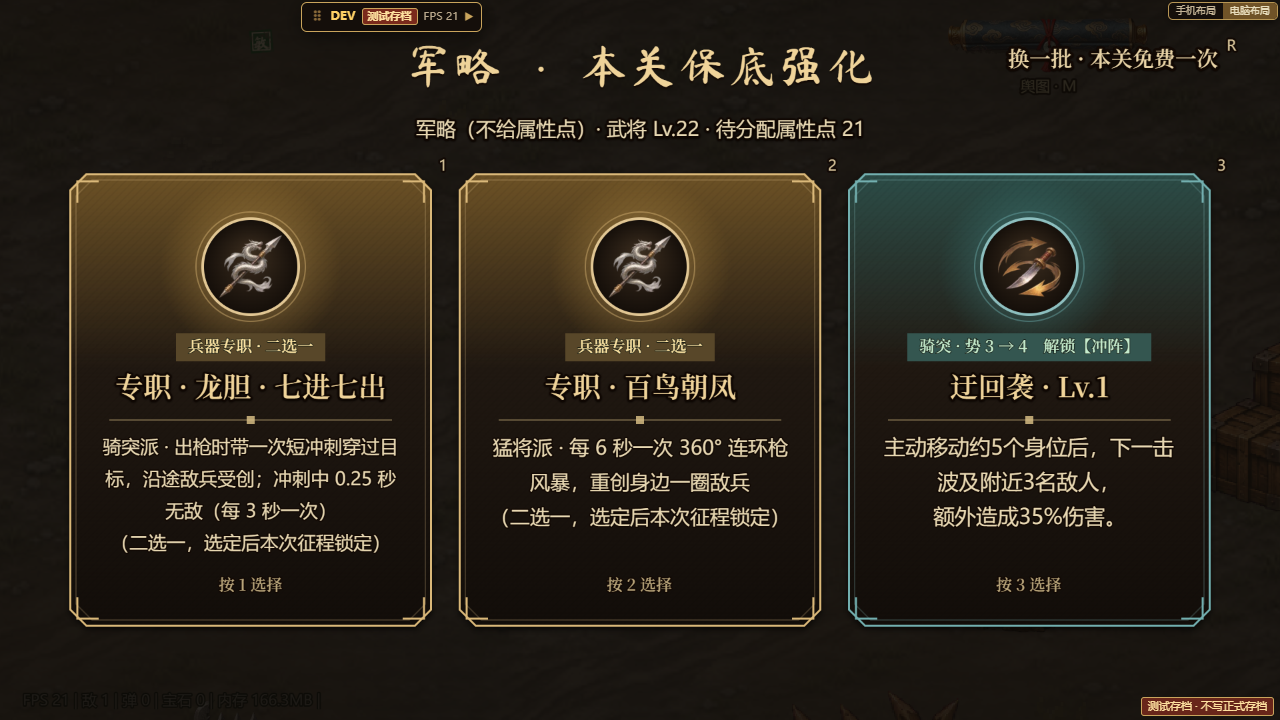
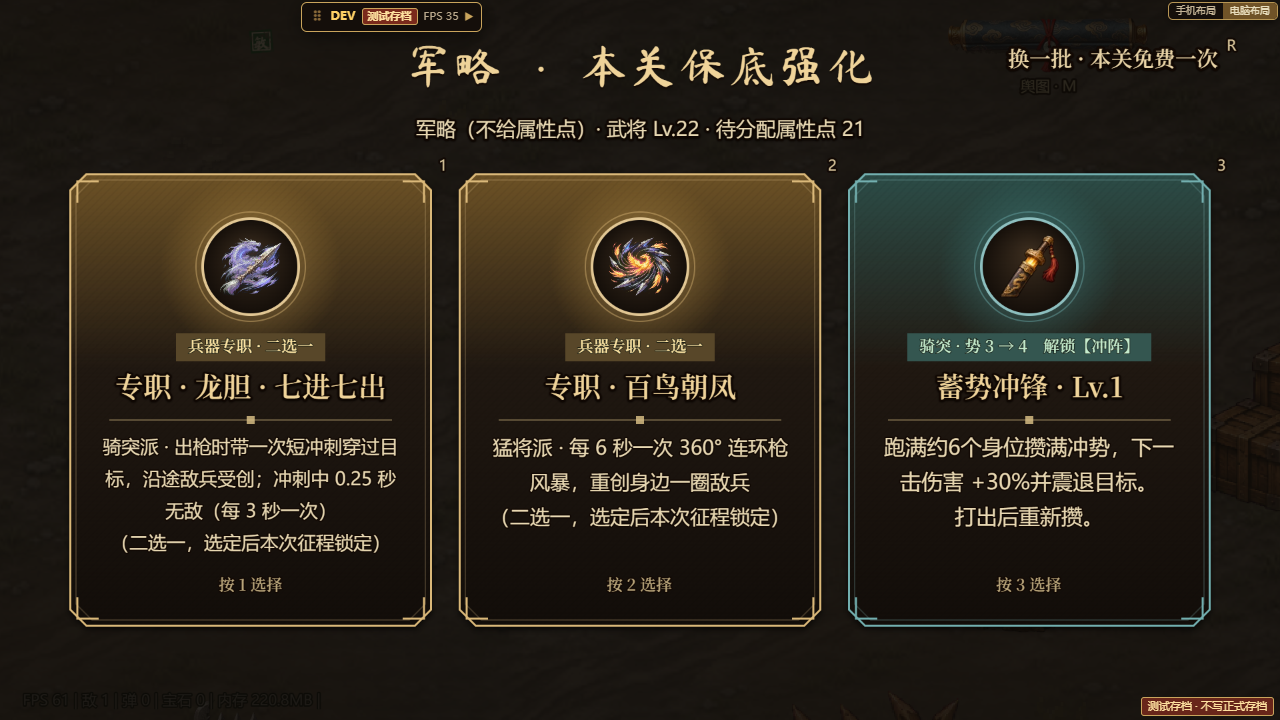
兵器专职 第二、三批 + 24 枚分支图标：12 名武将 24 个分支全部可选 - 第二批：诸葛亮 天火燎原（火场蔓延，进阶爆燃）/ 八阵生门（定身陷阱后引爆）；黄忠 百步穿杨（远距穿透狙击，进阶第 5 箭重创首领）/ 火矢（命中留火场）；   马超 西凉铁骑（虚影铁骑冲阵，进阶蹄火）/ 渭水大战（落点砸地，进阶攻速）；魏延 子午谷奇兵（地裂终点爆裂，进阶残血二连）/ 镇守汉中（营栅区减速 + 区内减伤） - 第三批：庞统 火烧连营（连线燃烧）/ 连环计（锁链分伤）；黄月英 诸葛连弩（多矢）/ 木牛流马（自动弩车）；孙尚香 万刃（飞刀齐射）/ 奔袭（撒刀回收）；   貂蝉 闭月（魅惑反打）/ 

diff --git a/src/systems/WeaponBranches.ts b/src/systems/WeaponBranches.ts
@@ -12,7 +12,7 @@ import { playSheet } from './SkillFxSheets';
  * 不改原武器逻辑：看本命武器「出手」（冷却被重置）、武器命中、击杀、主将移动来触发分支效果。
  * 特效全部用现有手绘序列帧换色（skill-fx / 典韦 / 学派觉醒 / 枪刺图），以后出了分支专属序列帧再换。
  * 强度：档 1（选定）/ 2（Lv6）/ 3（Lv7）按 k = 1 + 0.3 ×（档 − 1）；Lv7 且该派 4 势为进阶形态（final）。
- * 第一批：赵云 / 关羽 / 张飞 / 刘备 八个分支。
+ * 第一批：赵云 / 关羽 / 张飞 / 刘备；第二批：诸葛亮 / 黄忠 / 马超 / 魏延；第三批：庞统 / 黄月英 / 孙尚香 / 貂蝉（各两个分支）。
  */
 export interface BranchHost {
   scene: Phaser.Scene;
@@ -40,6 +40,15 @@ export class WeaponBranches {
   private lastCd = 0; private nextAt = 0; private dashQueue: number[] = []; private finalShown = false;
   private moveX = 0; private moveY = 0; private travel = 0; private segs: Seg[] = [];
   private barrier?: { ax: number; ay: number; bx: number; by: number; until: number; nextTick: number };
+  /** 火场（天火燎原 / 火矢 / 铁骑蹄火）、八阵陷阱、营栅区。 */
+  private fields: Array<{ x: number; y: number; r: number; until: number; nextTick: number; mul: number; spread: boolean }> = [];
+  private traps: Array<{ x: number; y: number; until: number; armed: number }> = [];
+  private camps: Array<{ x: number; y: number; r: number; until: number; nextTick: number; props: Phaser.GameObjects.Image[] }> = [];
+  private shots = 0; private slamAt = 0; private fieldAt = 0; private campAt = 0; private burstAt = 0;
+  /** 第三批：连环计锁链、木牛、飞刀、魅惑、舞圈。 */
+  private chained = new Map<Enemy, number>(); private chainUntil = 0; private oxen: Array<{ x: number; y: number; until: number; nextShot: number; img?: Phaser.GameObjects.Image }> = []; private oxAt = 0;
+  private volleyAt = 0; private knives: Array<{ x: number; y: number }> = []; private still = 0; private charmed: Array<{ e: Enemy; life: number; until: number; nextTick: number }> = [];
+  private rings: Array<{ x: number; y: number; until: number; nextTick: number }> = [];
   private stunned = new Map<Enemy, number>(); private guardUntil = 0; private healAt = 0; private healFxAt = 0; private thirdAt = 0;
   /** 测试用。 */
   readonly stats = { fires: 0, procs: 0, hits: 0, final: false };
@@ -65,9 +74,10 @@ export class WeaponBranches {
     const dx = P.x - this.moveX, dy = P.y - this.moveY, d = Math.hypot(dx, dy);
     if (b.id === 'gy_danqi' && d >= 70) { this.segs.push({ x: this.moveX, y: this.moveY, until: now + (this.tier() >= 3 ? 2600 : 2000), nextTick: now }); this.fx('fx_drag_scar', this.moveX, this.moveY, 92, this.tier() >= 3 ? 2600 : 2000, 0x8fe0b0, Math.atan2(dy, dx)); if (this.segs.length > 12) this.segs.shift(); this.travel += d; this.stats.procs++; this.moveX = P.x; this.moveY = P.y;
       if (this.final() && this.travel >= 400) { this.travel = 0; this.sweep(150, 1.5, 0x7fd6a0); } }
-    else if (b.id !== 'gy_danqi') { this.moveX = P.x; this.moveY = P.y; }
+    else if (b.id !== 'gy_danqi' && b.id !== 'ss_benxi') { this.moveX = P.x; this.moveY = P.y; }
     for (const s of this.segs) if (now < s.until && now >= s.nextTick) { s.nextTick = now + 500; for (const e of this.h.query(s.x, s.y, 46)) if (e.active && Math.hypot(e.x - s.x, e.y - s.y) <= 46 + e.radius) this.deal(e, .35); }
     this.segs = this.segs.filter(s => now < s.until);
+    this.tickZones(now); this.tick3(b, now);
     // 百鸟朝凤：定时风暴
     if (b.id === 'zy_bainiao' && now >= this.nextAt && this.nearest(200)) { this.nextAt = now + 6000 / this.k(); this.storm(); }
     // 断桥
@@ -80,6 +90,7 @@ export class WeaponBranches {
 
   private onFire(b: WeaponBranch, now: number): void {
     const P = this.h.player, k = this.k();
+    if (this.onFire2(b, now) || this.onFire3(b, now)) return;
     if (b.id === 'zy_longdan' && now >= this.nextAt) { this.nextAt = now + 3000 / k; this.dash(); if (this.final()) this.dashQueue.push(now + 170, now + 340); }
     else if (b.id === 'gy_qinglong') this.crescent();
     else if (b.id === 'zf_duanqiao') {
@@ -94,13 +105,21 @@ export class WeaponBranches {
   }
   /** 自身受伤（燕人怒吼：减伤，进阶后反震）。返回修正后的伤害。 */
   guard(n: number): number {
-    const b = this.branch; if (!b || b.id !== 'zf_nuhou' || this.h.now() >= this.guardUntil) return n;
+    const b = this.branch; if (b?.id === 'wy_hanzhong' && this.inCamp()) return n * .8;
+    if (!b || b.id !== 'zf_nuhou' || this.h.now() >= this.guardUntil) return n;
     if (this.final()) { const P = this.h.player; for (const e of this.h.query(P.x, P.y, 120)) if (e.active && !e.isSupplySlot) this.deal(e, .5); }
     return n * .7;
   }
   /** 本命武器命中（仁德 / 三英）。 */
   onWeaponHit(e: Enemy, dmg: number): void {
     const b = this.branch; if (!b) return; const now = this.h.now(), k = this.k();
+    if (b.id === 'pt_lianhuan' && now < this.chainUntil && this.chained.get(e) === e.spawnId) { for (const [o, life] of this.chained) if (o !== e && o.active && o.spawnId === life) this.h.damage(o, dmg * (this.tier() >= 3 ? .4 : .3)); this.stats.hits++; return; }
+    if (b.id === 'dc_biyue' && Math.random() < Math.min(.45, .15 * k) && e.kind !== 'boss' && (e.kind !== 'elite' || this.final()) && !this.charmed.some(c => c.e === e)) { this.charmed.push({ e, life: e.spawnId, until: now + 2000 * (this.tier() >= 3 ? 1.5 : 1), nextTick: now }); e.stunUntil = Math.max(e.stunUntil, now + 2000); this.fx('fx_heal_fushui', e.x, e.y - 20, 70, 600, 0xffa0d0); this.stats.procs++; return; }
+    if (b.id === 'hz_huoshi' && now >= this.fieldAt) { this.fieldAt = now + 400; this.field(e.x, e.y, 55, 2000 * (1 + .25 * (this.tier() - 1)), this.final() ? .26 : .2, false); return; }
+    if (b.id === 'mc_weishui' && now >= this.slamAt) { this.slamAt = now + 500; const r = 90 * (1 + .15 * (this.tier() - 1));
+      for (const o of this.h.query(e.x, e.y, r)) if (o.active && !o.isSupplySlot && Math.hypot(o.x - e.x, o.y - e.y) <= r + o.radius) this.deal(o, .5);
+      this.fx('fx_collapse_dust', e.x, e.y, r * 2.2, 500, 0xc8a878); this.stats.procs++;
+      if (this.final()) { const g = this.h.player.growth; g.berserkUntil = Math.max(g.berserkUntil, now) + 3000; } return; }
     if (b.id === 'lb_rende' && now >= this.healAt) {
       this.healAt = now + 300; const P = this.h.player;
       const hurt = this.h.allies().filter(a => a.active && a.hp < a.maxHp && Math.hypot(a.x - P.x, a.y - P.y) <= 220).sort((x, y) => x.hp / x.maxHp - y.hp / y.maxHp)[0];
@@ -147,7 +166,99 @@ export class WeaponBranches {
     } });
     this.stats.procs++;
   }
-  clear(): void { this.segs = []; this.barrier = undefined; this.dashQueue = []; this.stunned.clear(); }
+  /** 第二批：出手触发的分支（返回 true = 已处理）。 */
+  private onFire2(b: WeaponBranch, now: number): boolean {
+    const P = this.h.player, k = this.k(), t = this.nearest(460);
+    if (b.id === 'zg_liaoyuan') { if (!t) return true; const tx = t.x, ty = t.y; this.h.scene.time.delayedCall(850, () => this.field(tx, ty, 80 * (this.tier() >= 2 ? 1.2 : 1), 3000 * (this.tier() >= 3 ? 1.4 : 1), .25, true)); return true; }
+    if (b.id === 'zg_bazhen') { if (!t) return true; const max = this.final() ? 8 : 2 + this.tier(); if (this.traps.length >= max) this.traps.shift(); this.traps.push({ x: t.x, y: t.y, until: now + 6000, armed: 0 }); this.fx('fx_awaken_stratagem', t.x, t.y, 110, 500, 0x9fc8ff); this.stats.procs++; return true; }
+    if (b.id === 'hz_chuanyang') {
+      const far = this.farthest(520); if (!far) return true; this.shots++;
+      const ang = Math.atan2(far.y - P.y, far.x - P.x), L = 520, ex = P.x + Math.cos(ang) * L, ey = P.y + Math.sin(ang) * L, crit = this.tier() >= 3 ? 1.5 : 1, fifth = this.final() && this.shots % 5 === 0;
+      for (const e of this.h.query((P.x + ex) / 2, (P.y + ey) / 2, L / 2 + 30)) { if (!e.active || e.isSupplySlot || segDist(e.x, e.y, P.x, P.y, ex, ey) > 18 + e.radius) continue;
+        const d = Math.hypot(e.x - P.x, e.y - P.y); this.deal(e, .6 * (1 + d / 400) * crit * (fifth && (e.kind === 'boss' || e.kind === 'elite') ? 3 : 1)); }
+      this.fx('fx_flank_streak', (P.x + ex) / 2, (P.y + ey) / 2, L, 320, 0xf0f8ff, ang); this.stats.procs++; return true; }
+    if (b.id === 'mc_tieqi') {
+      if (!t) return true; const ang = Math.atan2(t.y - P.y, t.x - P.x), L = 300, ex = P.x + Math.cos(ang) * L, ey = P.y + Math.sin(ang) * L;
+      for (const e of this.h.query((P.x + ex) / 2, (P.y + ey) / 2, L / 2 + 50)) if (e.active && !e.isSupplySlot && segDist(e.x, e.y, P.x, P.y, ex, ey) <= 40 + e.radius) this.deal(e, .7);
+      this.fx('fx_flank_streak', (P.x + ex) / 2, (P.y + ey) / 2, L + 60, 380, 0xbfe0ff, ang);
+      if (this.final()) for (let i = 1; i <= 3; i++) this.field(P.x + Math.cos(ang) * L * i / 4, P.y + Math.sin(ang) * L * i / 4, 50, 1800, .2, false);
+      this.stats.procs++; return true; }
+    if (b.id === 'wy_ziwu') {
+      if (!t) return true; const ang = Math.atan2(t.y - P.y, t.x - P.x), L = Math.min(260, Math.hypot(t.x - P.x, t.y - P.y) + 30), x = P.x + Math.cos(ang) * L, y = P.y + Math.sin(ang) * L, twice = this.final() && P.hp < P.maxHp / 2;
+      const blast = () => { for (const e of this.h.query(x, y, 100)) if (e.active && !e.isSupplySlot && Math.hypot(e.x - x, e.y - y) <= 90 + e.radius) this.deal(e, .9); this.fx('fx_explosion', x, y, 200, 500, 0xff9a7a); };
+      this.h.scene.time.delayedCall(500, blast); if (twice) this.h.scene.time.delayedCall(800, blast); this.stats.procs++; return true; }
+    if (b.id === 'wy_hanzhong') {
+      if (now < this.campAt) return true; this.campAt = now + 5000; const max = this.final() ? 2 : 1; if (this.camps.length >= max) { const old = this.camps.shift(); old?.props.forEach(p => p.destroy()); }
+      const r = 110 * (1 + .15 * (this.tier() - 1)), s = this.h.scene, props: Phaser.GameObjects.Image[] = [];
+      if (s.textures.exists('yellow_props')) for (let i = 0; i < 8; i++) { const a = i / 8 * Math.PI * 2, x = P.x + Math.cos(a) * r, y = P.y + Math.sin(a) * r * .7; props.push(s.add.image(x, y, 'yellow_props', 12).setOrigin(.5, .9).setDisplaySize(64, 64).setDepth(y / 10 + 20).setAlpha(.95)); }
+      this.camps.push({ x: P.x, y: P.y, r, until: now + 5000 * (1 + .2 * (this.tier() - 1)), nextTick: now, props }); this.stats.procs++; return true; }
+    return false;
+  }
+  /** 第三批：出手触发。 */
+  private onFire3(b: WeaponBranch, now: number): boolean {
+    const P = this.h.player, t = this.nearest(420);
+    if (b.id === 'pt_lianying') { if (!t) return true; const n = this.final() ? 5 : 3; for (let i = 1; i <= n; i++) this.field(P.x + (t.x - P.x) * i / 3, P.y + (t.y - P.y) * i / 3, 55, 2200 * (this.tier() >= 3 ? 1.3 : 1), .22 * (this.tier() >= 2 ? 1.25 : 1), false); return true; }
+    if (b.id === 'pt_lianhuan') { if (!t) return true; this.chained.clear(); const n = 4 + 2 * (this.tier() - 1);
+      for (const e of this.h.query(t.x, t.y, 200).filter(o => o.active && !o.isSupplySlot && o.kind !== 'boss').slice(0, n)) { this.chained.set(e, e.spawnId); this.fx('fx_strike_glint', e.x, e.y - 10, 60, 400, 0xc8d0e0); }
+      this.chainUntil = now + 6000; this.stats.procs++; return true; }
+    if (b.id === 'hy_liannu') { const n = 2 + (this.tier() - 1), pool = this.h.query(P.x, P.y, 380).filter(e => e.active && !e.isSupplySlot);
+      for (let i = 0; i < n && pool.length; i++) { const e = pool.splice(Math.floor(Math.random() * pool.length), 1)[0]; this.deal(e, .5); this.fx('fx_strike_glint', e.x, e.y - 10, 60, 300, 0xf0e8c8);
+        if (this.final() && Math.random() < .2) { const o = this.h.query(e.x, e.y, 120).find(x => x !== e && x.active && !x.isSupplySlot); if (o) this.deal(o, .35); } }
+      this.stats.procs++; return true; }
+    if (b.id === 'dc_meirenji') { if (!t) return true; this.rings.push({ x: t.x, y: t.y, until: now + 4000, nextTick: now }); if (this.rings.length > 4) this.rings.shift(); this.fx('fx_heal_fushui', t.x, t.y, 200 * (this.tier() >= 2 ? 1.2 : 1), 4000, 0xffb0d8); this.stats.procs++; return true; }
+    return false;
+  }
+  /** 第三批：每帧（木牛、万刃齐射、奔袭飞刀、魅惑、舞圈、连环减速）。 */
+  private tick3(b: WeaponBranch, now: number): void {
+    const P = this.h.player, k = this.k();
+    if (b.id === 'hy_muniu') {
+      const max = this.final() ? 2 : 1;
+      if (now >= this.oxAt && this.oxen.length < max) { this.oxAt = now + 10000; const s = this.h.scene, x = P.x + 40, y = P.y + 20;
+        const img = s.textures.exists('yellow_props') ? s.add.image(x, y, 'yellow_props', 24).setOrigin(.5, .9).setDisplaySize(70, 70).setDepth(y / 10 + 20).setTint(0xe8c890) : undefined;
+        this.oxen.push({ x, y, until: now + 8000 * (this.tier() >= 3 ? 1.3 : 1), nextShot: now, img }); this.stats.procs++; }
+      for (const o of this.oxen) if (now < o.until && now >= o.nextShot) { o.nextShot = now + 600 / k; let best: Enemy | null = null, d0 = 300; for (const e of this.h.query(o.x, o.y, 300)) { if (!e.active || e.isSupplySlot) continue; const d = Math.hypot(e.x - o.x, e.y - o.y); if (d < d0) { d0 = d; best = e; } }
+        if (best) { this.deal(best, .4); this.fx('fx_flank_streak', (o.x + best.x) / 2, (o.y + best.y) / 2, d0 + 30, 200, 0xf0e0b0, Math.atan2(best.y - o.y, best.x - o.x)); } }
+      for (const o of this.oxen.filter(x => now >= x.until)) { o.img?.destroy(); if (this.final()) { for (const e of this.h.query(o.x, o.y, 110)) if (e.active && !e.isSupplySlot && Math.hypot(e.x - o.x, e.y - o.y) <= 100 + e.radius) this.deal(e, .8); this.fx('fx_explosion', o.x, o.y, 180, 450, 0xffc080); } }
+      this.oxen = this.oxen.filter(x => now < x.until);
+    }
+    if (b.id === 'ss_wanren' && now >= this.volleyAt && this.nearest(260)) { this.volleyAt = now + 3000 / k; const volley = () => { const near = this.h.query(P.x, P.y, 260).filter(e => e.active && !e.isSupplySlot).slice(0, 8); for (const e of near) { this.deal(e, .5); this.fx('fx_strike_glint', e.x, e.y - 10, 56, 260, 0xffd0d0); } this.fx('fx_dianwei_whirl', P.x, P.y, 300, 380, 0xffc0c0); };
+      volley(); if (this.final()) this.h.scene.time.delayedCall(400, volley); this.stats.procs++; }
+    if (b.id === 'ss_benxi') {
+      const d = Math.hypot(P.x - this.moveX, P.y - this.moveY);
+      if (d >= 90) { this.knives.push({ x: this.moveX, y: this.moveY }); if (this.knives.length > 8 + 2 * this.tier()) this.knives.shift(); this.fx('fx_strike_glint', this.moveX, this.moveY, 50, 400, 0xe0e8ff); this.moveX = P.x; this.moveY = P.y; this.still = now;
+        for (const e of this.h.query(this.moveX, this.moveY, 60)) if (e.active && !e.isSupplySlot && Math.hypot(e.x - this.moveX, e.y - this.moveY) <= 50 + e.radius) this.deal(e, .25); }
+      else if (this.knives.length && now - this.still > 500) { for (const kn of this.knives) for (const e of this.h.query(kn.x, kn.y, 60)) if (e.active && !e.isSupplySlot && Math.hypot(e.x - kn.x, e.y - kn.y) <= 50 + e.radius) this.deal(e, this.final() ? .4 : .3); this.knives = []; this.stats.procs++; }
+    }
+    for (const c of this.charmed) if (now < c.until && now >= c.nextTick && c.e.active && c.e.spawnId === c.life) { c.nextTick = now + 500; for (const o of this.h.query(c.e.x, c.e.y, 90)) if (o !== c.e && o.active && !o.isSupplySlot && o.kind !== 'boss' && Math.hypot(o.x - c.e.x, o.y - c.e.y) <= 80 + o.radius) this.deal(o, .3); }
+    this.charmed = this.charmed.filter(c => now < c.until && c.e.active && c.e.spawnId === c.life);
+    for (const r of this.rings) if (now < r.until && now >= r.nextTick) { r.nextTick = now + 500; const rr = 90 * (this.tier() >= 2 ? 1.2 : 1);
+      for (const e of this.h.query(r.x, r.y, rr + 20)) if (e.active && !e.isSupplySlot && Math.hypot(e.x - r.x, e.y - r.y) <= rr + e.radius) this.deal(e, .25 * (this.tier() >= 3 ? 1.3 : 1)); this.h.slow(r.x, r.y, rr, .2, 700);
+      if (this.final()) for (const o of this.rings) if (o !== r && now < o.until && Math.hypot(o.x - r.x, o.y - r.y) < rr * 1.6) { const mx = (o.x + r.x) / 2, my = (o.y + r.y) / 2; for (const e of this.h.query(mx, my, 70)) if (e.active && !e.isSupplySlot) this.deal(e, .4); this.fx('fx_heal_fushui', mx, my, 120, 400, 0xff90c0); } }
+    this.rings = this.rings.filter(r => now < r.until);
+    if (b.id === 'pt_lianhuan' && this.final() && now < this.chainUntil) for (const [e, life] of this.chained) if (e.active && e.spawnId === life && Math.random() < .1) this.h.slow(e.x, e.y, 20, .7, 600);
+  }
+  private farthest(r: number): Enemy | null { const P = this.h.player; let best: Enemy | null = null, d0 = 0; for (const e of this.h.query(P.x, P.y, r)) { if (!e.active || e.isSupplySlot) continue; const d = Math.hypot(e.x - P.x, e.y - P.y); if (d <= r && d > d0) { d0 = d; best = e; } } return best; }
+  /** 火场：每 0.5 秒灼烧圈内敌兵；天火燎原的火场会向 160 内相邻火场蔓延（中点再起一片），进阶后三片以上爆燃。 */
+  private field(x: number, y: number, r: number, ms: number, mul: number, spread: boolean): void {
+    const now = this.h.now(); this.fields.push({ x, y, r, until: now + ms, nextTick: now, mul, spread }); if (this.fields.length > 10) this.fields.shift();
+    this.fx('fx_ground_fire', x, y, r * 2.3, ms, 0xffb070); this.stats.procs++;
+    if (spread) { const n = this.fields.find(f => f !== this.fields[this.fields.length - 1] && f.spread && Math.hypot(f.x - x, f.y - y) < 160 && Math.hypot(f.x - x, f.y - y) > 40);
+      if (n && this.fields.length < 10) { const mx = (n.x + x) / 2, my = (n.y + y) / 2; this.fields.push({ x: mx, y: my, r: r * .8, until: now + ms * .7, nextTick: now, mul, spread: false }); this.fx('fx_ground_fire', mx, my, r * 1.8, ms * .7, 0xffb070); } }
+  }
+  private tickZones(now: number): void {
+    for (const f of this.fields) if (now < f.until && now >= f.nextTick) { f.nextTick = now + 500; for (const e of this.h.query(f.x, f.y, f.r + 20)) if (e.active && !e.isSupplySlot && Math.hypot(e.x - f.x, e.y - f.y) <= f.r + e.radius) this.deal(e, f.mul, true); }
+    this.fields = this.fields.filter(f => now < f.until);
+    if (this.branch?.id === 'zg_liaoyuan' && this.final() && now >= this.burstAt) { const sp = this.fields.filter(f => f.spread); if (sp.length >= 3) { this.burstAt = now + 4000; const cx = sp.reduce((a, f) => a + f.x, 0) / sp.length, cy = sp.reduce((a, f) => a + f.y, 0) / sp.length; for (const e of this.h.query(cx, cy, 160)) if (e.active && !e.isSupplySlot && Math.hypot(e.x - cx, e.y - cy) <= 140 + e.radius) this.deal(e, 1.5, true); this.fx('fx_explosion', cx, cy, 300, 600, 0xffa060); } }
+    for (const tp of this.traps) { if (now >= tp.until) continue;
+      if (!tp.armed) { const hit = this.h.query(tp.x, tp.y, 70).filter(e => e.active && !e.isSupplySlot && e.kind !== 'boss' && Math.hypot(e.x - tp.x, e.y - tp.y) <= 60 + e.radius); if (hit.length) { tp.armed = now + 1000; for (const e of hit) e.stunUntil = Math.max(e.stunUntil, now + 1000 * (this.tier() >= 3 ? 1.5 : 1)); } }
+      else if (now >= tp.armed) { tp.until = 0; for (const e of this.h.query(tp.x, tp.y, 100)) if (e.active && !e.isSupplySlot && Math.hypot(e.x - tp.x, e.y - tp.y) <= 90 + e.radius) this.deal(e, .8); this.fx('fx_explosion', tp.x, tp.y, 180, 450, 0x9fc8ff); } }
+    this.traps = this.traps.filter(tp => now < tp.until);
+    for (const c of this.camps) if (now < c.until && now >= c.nextTick) { c.nextTick = now + 500; this.h.slow(c.x, c.y, c.r, .4, 700); }
+    const gone = this.camps.filter(c => now >= c.until); for (const c of gone) c.props.forEach(p => p.destroy()); this.camps = this.camps.filter(c => now < c.until);
+  }
+  /** 镇守汉中：主将在营栅区内减伤 20%。 */
+  inCamp(): boolean { const P = this.h.player, now = this.h.now(); return this.camps.some(c => now < c.until && Math.hypot(P.x - c.x, P.y - c.y) <= c.r); }
+  clear(): void { this.segs = []; this.barrier = undefined; this.dashQueue = []; this.stunned.clear(); this.fields = []; this.traps = []; for (const c of this.camps) c.props.forEach(p => p.destroy()); this.camps = []; for (const o of this.oxen) o.img?.destroy(); this.oxen = []; this.chained.clear(); this.charmed = []; this.rings = []; this.knives = []; }
 }
 function segDist(px: number, py: number, ax: number, ay: number, bx: number, by: number): number {
   const dx = bx - ax, dy = by - ay, l2 = dx * dx + dy * dy || 1, t = Math.max(0, Math.min(1, ((px - ax) * dx + (py - ay) * dy) / l2));

diff --git a/src/data/weaponBranches.ts b/src/data/weaponBranches.ts
@@ -27,23 +27,25 @@ export const WEAPON_BRANCHES: readonly WeaponBranch[] = [
   B('dangyang_roar', 'zf_nuhou', 'formation', '燕人怒吼', '每次喝断后 5 秒部曲伤害 +20%，自身 3 秒受伤 −30%', '部曲加伤 +30%', '部曲加伤再提高、持续更久', '万人敌', '怒吼期间受击反震身边敌兵', true),
   B('shuanggu_swords', 'lb_rende', 'formation', '仁德', '每次命中治疗附近受伤的部曲；击杀时有几率召一名义勇随战 10 秒', '治疗 +30%、义勇几率提高', '治疗再提高、义勇几率再提高', '携民渡江', '义勇同时存在更多，存在时自身受伤 −10%', true),
   B('shuanggu_swords', 'lb_sanying', 'warrior', '三英', '命中时有几率追加第三剑，斩向附近另一名敌兵', '第三剑几率 +30%', '第三剑几率再提高、伤害提高', '桃园结义', '随行有关羽或张飞时三剑伤害再 +30%', true),
-  B('flame_banner', 'zg_liaoyuan', 'fire', '天火燎原', '天火落点留下更大、更久的火场，火场会向相邻火场蔓延', '火场更大', '火场更久', '火烧博望', '火场连成一片时爆燃一次'),
-  B('flame_banner', 'zg_bazhen', 'stratagem', '八阵生门', '星位变成八阵陷阱：敌兵踏入定身 1 秒，随后引爆', '陷阱更多', '定身更久', '八阵图', '同时布 8 个星位、连成阵图'),
-  B('lianhuan_mines', 'pt_lianying', 'fire', '火烧连营', '火雷连锁时沿连线留下燃烧线', '燃烧线伤害提高', '燃烧线更长', '赤壁东风', '燃烧线随风向前推进'),
-  B('lianhuan_mines', 'pt_lianhuan', 'stratagem', '连环计', '火雷把附近敌兵用锁链连在一起，打一个、连着的都掉血', '连锁人数 +2', '分摊比例提高', '铁索连舟', '连着的敌兵移动大减速'),
-  B('baodiao_bow', 'hz_chuanyang', 'archery', '百步穿杨', '重箭穿透一整列，距离越远伤害越高', '远距加成提高', '必暴击', '定军山', '每第 5 箭对首领 / 副将额外重创'),
-  B('baodiao_bow', 'hz_huoshi', 'fire', '火矢', '箭带火，命中处留下小火场', '火场更大', '火场更久', '老当益壮', '火场里的敌兵受箭伤 +30%'),
-  B('crossbow', 'hy_liannu', 'archery', '诸葛连弩', '每轮多 2 支弩矢，弹射 +2', '再多 1 支', '弹射再 +1', '元戎', '弩矢命中时 20% 再分裂'),
-  B('crossbow', 'hy_muniu', 'stratagem', '木牛流马', '每 10 秒放出一只木牛，自动射弩 8 秒', '木牛射得更快', '木牛更耐打', '机关术', '木牛同时 2 只，被打坏时爆炸'),
-  B('sun_knives', 'ss_wanren', 'archery', '万刃', '环身飞刀每 3 秒向外齐射一轮', '齐射更频繁', '飞刀更多', '枭姬', '齐射的刀会折返再割一次'),
-  B('sun_knives', 'ss_benxi', 'cavalry', '奔袭', '冲刺时身后撒下一路飞刀，结束时收回再割一次', '飞刀更多', '冲刺更频繁', '乘龙', '冲刺冷却 −30%'),
-  B('diaochan_fans', 'dc_biyue', 'stratagem', '闭月', '团扇命中有几率魅惑敌兵 2 秒（反打身边敌兵）', '魅惑几率提高', '魅惑更久', '离间', '被魅惑的精锐会攻击首领'),
-  B('diaochan_fans', 'dc_meirenji', 'formation', '连环美人计', '团扇飞过的路线留下舞圈 4 秒，圈内敌兵受伤 +20%', '舞圈更大', '易伤更高', '凤仪亭', '舞圈相交处每秒爆一次花'),
-  B('zhanjin_lance', 'mc_tieqi', 'cavalry', '西凉铁骑', '挑飞时召一排虚影铁骑沿枪向冲过', '铁骑更多', '铁骑伤害提高', '锦马超', '铁骑踏过留下马蹄火痕'),
-  B('zhanjin_lance', 'mc_weishui', 'warrior', '渭水大战', '落地砸击范围变大，被挑飞的敌兵砸到别人也造成伤害', '砸击更大', '连锁伤害提高', '割须弃袍', '砸地后 3 秒攻速 +30%'),
-  B('zhenbei_blade', 'wy_ziwu', 'warrior', '子午谷奇兵', '地裂延长并在终点二次爆裂', '地裂更长', '二次爆裂更大', '反骨', '生命低于一半时地裂翻倍'),
-  B('zhenbei_blade', 'wy_hanzhong', 'formation', '镇守汉中', '重劈处插下营栅区 5 秒：部曲在区内减伤、敌兵减速', '营栅区更大', '营栅区更久', '汉中太守', '营栅区可同时存在 2 处'),
+  B('flame_banner', 'zg_liaoyuan', 'fire', '天火燎原', '天火落点留下更大、更久的火场，火场会向相邻火场蔓延', '火场更大', '火场更久', '火烧博望', '火场连成一片时爆燃一次', true),
+  B('flame_banner', 'zg_bazhen', 'stratagem', '八阵生门', '星位变成八阵陷阱：敌兵踏入定身 1 秒，随后引爆', '陷阱更多', '定身更久', '八阵图', '同时布 8 个星位、连成阵图', true),
+  B('lianhuan_mines', 'pt_lianying', 'fire', '火烧连营', '火雷连锁时沿连线留下燃烧线', '燃烧线伤害提高', '燃烧线更长', '赤壁东风', '燃烧线随风向前推进', true),
+  B('lianhuan_mines', 'pt_lianhuan', 'stratagem', '连环计', '火雷把附近敌兵用锁链连在一起，打一个、连着的都掉血', '连锁人数 +2', '分摊比例提高', '铁索连舟', '连着的敌兵移动大减速', true),
+  B('baodiao_bow', 'hz_chuanyang', 'archery', '百步穿杨', '重箭穿透一整列，距离越远伤害越高', '远距加成提高', '必暴击', '定军山', '每第 5 箭对首领 / 副将额外重创', true),
+  B('baodiao_bow', 'hz_huoshi', 'fire', '火矢', '箭带火，命中处留下小火场', '火场更大', '火场更久', '老当益壮', '火场里的敌兵受箭伤 +30%', true),
+  B('crossbow', 'hy_liannu', 'archery', '诸葛连弩', '每轮多 2 支弩矢，弹射 +2', '再多 1 支', '弹射再 +1', '元戎', '弩矢命中时 20% 再分裂', true),
+  B('crossbow', 'hy_muniu', 'stratagem', '木牛流马', '每 10 秒放出一只木牛，自动射弩 8 秒', '木牛射得更快', '木牛更耐打', '机关术', '木牛同时 2 只，被打坏时爆炸', true),
+  B('sun_knives', 'ss_wanren', 'archery', '万刃', '环身飞刀每 3 秒向外齐射一轮', '齐射更频繁', '飞刀更多', '枭姬', '齐射的刀会折返再割一次', true),
+  B('sun_knives', 'ss_benxi', 'cavalry', '奔袭', '冲刺时身后撒下一路飞刀，结束时收回再割一次', '飞刀更多', '冲刺更频繁', '乘龙', '冲刺冷却 −30%', true),
+  B('diaochan_fans', 'dc_biyue', 'stratagem', '闭月', '团扇命中有几率魅惑敌兵 2 秒（反打身边敌兵）', '魅惑几率提高', '魅惑更久', '离间', '被魅惑的精锐会攻击首领', true),
+  B('diaochan_fans', 'dc_meirenji', 'formation', '连环美人计', '团扇飞过的路线留下舞圈 4 秒，圈内敌兵受伤 +20%', '舞圈更大', '易伤更高', '凤仪亭', '舞圈相交处每秒爆一次花', true),
+  B('zhanjin_lance', 'mc_tieqi', 'cavalry', '西凉铁骑', '挑飞时召一排虚影铁骑沿枪向冲过', '铁骑更多', '铁骑伤害提高', '锦马超', '铁骑踏过留下马蹄火痕', true),
+  B('zhanjin_lance', 'mc_weishui', 'warrior', '渭水大战', '落地砸击范围变大，被挑飞的敌兵砸到别人也造成伤害', '砸击更大', '连锁伤害提高', '割须弃袍', '砸地后 3 秒攻速 +30%', true),
+  B('zhenbei_blade', 'wy_ziwu', 'warrior', '子午谷奇兵', '地裂延长并在终点二次爆裂', '地裂更长', '二次爆裂更大', '反骨', '生命低于一半时地裂翻倍', true),
+  B('zhenbei_blade', 'wy_hanzhong', 'formation', '镇守汉中', '重劈处插下营栅区 5 秒：部曲在区内减伤、敌兵减速', '营栅区更大', '营栅区更久', '汉中太守', '营栅区可同时存在 2 处', true),
 ];
+/** 已出图的分支图标（public/assets/upgrade-icons/branch_<id>.webp）。 */
+export const BRANCH_ICON_READY: readonly string[] = WEAPON_BRANCHES.map(b => b.id); // 24 枚都已出图（ChatGPT 两张 4×3）
 export function branchesFor(weapon: WeaponId): WeaponBranch[] { return WEAPON_BRANCHES.filter(b => b.weapon === weapon); }
 export function branchById(id: string | undefined): WeaponBranch | undefined { return id ? WEAPON_BRANCHES.find(b => b.id === id) : undefined; }
 /** 本命 Lv6 / 7 的章节门槛（超出 Lv5 的级数上限）。 */

diff --git a/src/scenes/BootScene.ts b/src/scenes/BootScene.ts
@@ -6,6 +6,7 @@ import { BOOT_TO_KEY } from '../systems/BattleSnapshot';
 import {loadWarnFx} from '../ui/WarnFx';
 import {HOME_ART_HEROES} from '../data/characters';
 import {GROWTH_ICON_IDS} from '../ui/GrowthIcons';
+import {BRANCH_ICON_READY} from '../data/weaponBranches';
 import {TACTICS,TREASURES} from '../data/builds';
 import {loadWorld,worldUnlocked} from '../world/WorldStore';
 import Phaser from 'phaser';
@@ -45,6 +46,8 @@ export class BootScene extends Phaser.Scene {
     // 三选一 / 增益栏图标：2026-11-14 起使用 ChatGPT 生成的厚涂图标（assets/upgrade-icons，tools/build-upgrade-icons.mjs 切图）；
     // 旧像素图标仍保留在 growth-icons / build 目录，未被删除。
     if(!lean)for(const id of GROWTH_ICON_IDS)this.load.image('growth_icon_'+id,'assets/upgrade-icons/'+id+'.webp');
+    // 兵器专职分支卡面图标（ChatGPT 手绘，tools/prepare-branch-icons.py）：只载已出图的（BRANCH_ICON_READY）
+    if(!lean)for(const id of BRANCH_ICON_READY)this.load.image('branch_icon_'+id,'assets/upgrade-icons/branch_'+id+'.webp');
     if(!lean)for(const id of [...Object.keys(TACTICS),...Object.keys(TREASURES)])this.load.image('build_icon_'+id,'assets/upgrade-icons/'+(TACTIC_ICON_ALIAS[id]??id)+'.webp'); // 流派重做新战法第 1 期借现有图标（火油罐 → 燎原灯、疾风 → 镇军盘），第 3 期出新图
     if(!lean){for(const sc of SCHOOL_IDS)this.load.image('build_icon_school_'+sc,'assets/schools/seal_'+sc+'.png');this.load.image('school_banner_combo','assets/schools/banner_combo.png');this.load.image('school_banner_awaken','assets/schools/banner_awaken.png');} // 流派重做第 3 期：六派徽印、合击 / 觉醒横幅
     // 水墨按钮底板（ChatGPT 生成，tools/prepare-button-art.mjs 切图）；homeCommand 有图即用，缺图退回程序画底板

diff --git a/tools/prepare-branch-icons.py b/tools/prepare-branch-icons.py
@@ -1,0 +1,33 @@
+"""兵器专职分支卡面图标（wave-progression-redesign.md §4.7）：ChatGPT 洋红底 4×3 两张 → public/assets/upgrade-icons/branch_<分支 id>.webp（256×256）。
+原图放 public/assets/upgrade-icons/originals/branch_icons_{1,2}_gpt.png；去底用 tools/prepare-school-art.py 的 key_out，再把洋红溢色（光晕里的紫边）压掉。
+用法：py -I tools/prepare-branch-icons.py
+"""
+import importlib.util, numpy as np
+from PIL import Image
+spec = importlib.util.spec_from_file_location('sa', 'tools/prepare-school-art.py'); sa = importlib.util.module_from_spec(spec); spec.loader.exec_module(sa)
+O = 'public/assets/upgrade-icons/originals/'; D = 'public/assets/upgrade-icons/'
+SHEETS = {
+    'branch_icons_1_gpt.png': ['zy_longdan', 'zy_bainiao', 'gy_qinglong', 'gy_danqi', 'zf_duanqiao', 'zf_nuhou', 'lb_rende', 'lb_sanying', 'zg_liaoyuan', 'zg_bazhen', 'hz_chuanyang', 'hz_huoshi'],
+    'branch_icons_2_gpt.png': ['mc_tieqi', 'mc_weishui', 'wy_ziwu', 'wy_hanzhong', 'pt_lianying', 'pt_lianhuan', 'hy_liannu', 'hy_muniu', 'ss_wanren', 'ss_benxi', 'dc_biyue', 'dc_meirenji'],
+}
+
+
+def unpink(img):
+    """光晕里残留的洋红：min(红, 蓝) 比绿高很多的像素按程度降不透明度、把蓝拉回去（同 prepare-route-art）。"""
+    a = np.asarray(img).astype(np.float32); R, G, B, A = a[..., 0], a[..., 1], a[..., 2], a[..., 3]
+    tint = np.clip(np.minimum(R, B) - G - 40, 0, None); k = np.clip(1 - tint / 60, 0, 1)
+    a[..., 3] = A * k; a[..., 2] = np.where(tint > 0, np.minimum(B, G + (R - G) * .5 + 10), B); return Image.fromarray(np.clip(a, 0, 255).astype(np.uint8), 'RGBA')
+
+
+def square(img, box, size=256, pad=.06):
+    x0, y0, x1, y1 = box; fr = img.crop((x0, y0, x1, y1)); w, h = fr.size; side = int(max(w, h) * (1 + pad * 2))
+    out = Image.new('RGBA', (side, side), (0, 0, 0, 0)); out.alpha_composite(fr, ((side - w) // 2, (side - h) // 2)); return out.resize((size, size), Image.LANCZOS)
+
+
+if __name__ == '__main__':
+    import os
+    for f, names in SHEETS.items():
+        if not os.path.exists(O + f): print('skip (missing)', f); continue
+        img = unpink(sa.key_out(O + f, 120, 60))
+        for n, b in zip(names, sa.grid(img, 4, 3)):
+            square(img, b).save(D + 'branch_' + n + '.webp', 'WEBP', quality=90); print('branch_' + n)
